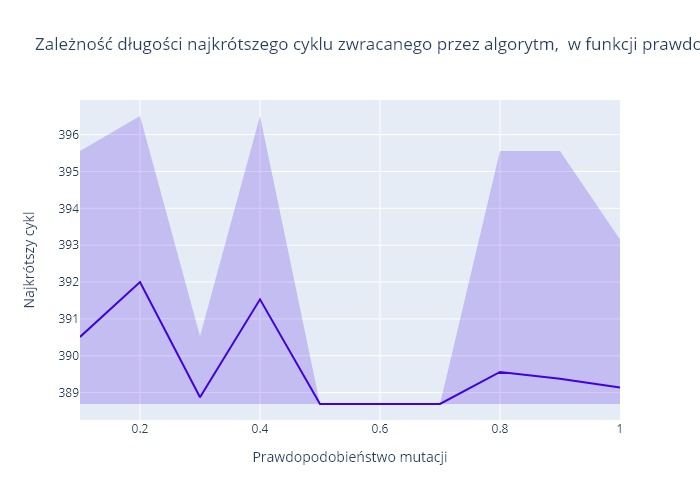
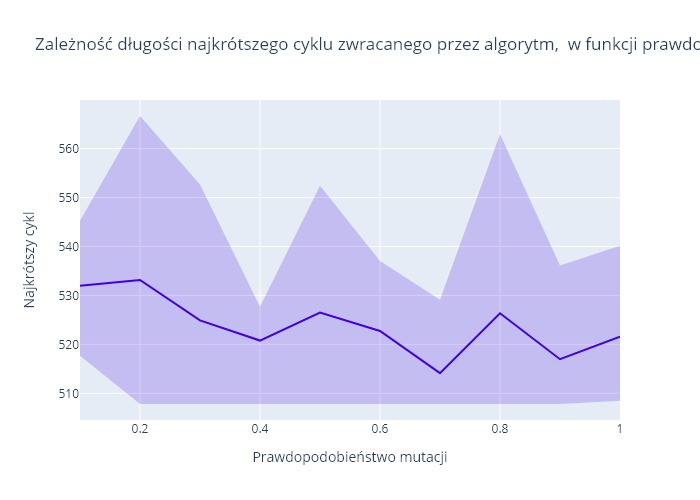
gotowe do eksperymentów

diff --git a/main.py b/main.py
@@ -356,11 +356,11 @@ def genetic_operations(specimens, population_size, mutation_probability):
 
 def experiment(
     points,
-    population_size=600,
+    population_size=400,
     elite_size_percent=0.3,
-    mutation_probability=0.6,
-    tournament_size=2,
-    iteration_count_end=50,
+    mutation_probability=0.7,
+    tournament_size=3,
+    iteration_count_end=100,
     plot_best_values=None,
     plot_best_values_repeated=None,
 ):
@@ -458,7 +458,9 @@ def investigate_population_size(start, end, step_arg, points):
         
         mean_values[idx] = mean(paths_values)
         std_values[idx] = std(paths_values)
-
+        min_values[idx] = min(paths_values)
+        max_values[idx] = max(paths_values)
+        
         generations_mean[idx] = mean(generations)
         generations_values[idx] = std(generations)
 
@@ -473,7 +475,7 @@ def investigate_population_size(start, end, step_arg, points):
         ),
         go.Scatter(
             x=population_sizes+population_sizes[::-1],
-            y=concatenate([max_values, min_values[::-1]]),#get_std_bounds(std_values, mean_values),
+            y=concatenate([max_values, min_values[::-1]]),#get_std_bounds(std_values, mean_values),#
             fill='toself',
             fillcolor='rgba(227, 51, 39, 0.2)',
             line=dict(color='rgba(255,255,255,0)'),
@@ -494,6 +496,8 @@ def investigate_tournament_size(start, end, step_arg, points):
     experiments_per_size = 10
     mean_values = zeros(shape=[len(tournament_sizes), ])
     std_values = zeros(shape=[len(tournament_sizes), ])
+    min_values = zeros(shape=[len(tournament_sizes), ])
+    max_values = zeros(shape=[len(tournament_sizes), ])
 
     generations_mean = zeros(shape=[len(tournament_sizes), ])
     generations_values = zeros(shape=[len(tournament_sizes), ])
@@ -548,6 +552,8 @@ def investigate_elitarism(start, end, step_arg, points):
     experiments_per_size = 10
     mean_values = zeros(shape=[len(elite_sizes), ])
     std_values = zeros(shape=[len(elite_sizes), ])
+    min_values = zeros(shape=[len(elite_sizes), ])
+    max_values = zeros(shape=[len(elite_sizes), ])
 
     generations_mean = zeros(shape=[len(elite_sizes), ])
     generations_values = zeros(shape=[len(elite_sizes), ])
@@ -558,7 +564,7 @@ def investigate_elitarism(start, end, step_arg, points):
         print(_elite_size)
         for expr in range(experiments_per_size):
             expr_result = experiment(points,
-                                    population_size=600,
+                                    # population_size=600,
                                     elite_size=_elite_size)
             paths_values[expr] = expr_result[0]
             generations[expr] = expr_result[3]
@@ -617,7 +623,7 @@ def investigate_mutation(start, end, step_arg, points):
         print( _mutation_probability)
         for expr in range(experiments_per_size):
             expr_result = experiment(points,
-                                    population_size=300,
+                                    # population_size=300,
                                     # elite_size=90,
                                     mutation_probability=_mutation_probability)
             paths_values[expr] = expr_result[0]
@@ -681,7 +687,7 @@ if __name__ == "__main__":
     # for c in najlepsze:
     #     print(c)
     
-    investigate_population_size(100, 800, 100, points)
+    investigate_population_size(10, 111, 50, points)
     # investigate_tournament_size(2, 10, 1, points)
     # investigate_elitarism(30, 480, 30, points)
     # investigate_mutation(0.1, 1.0, 0.1, points)
